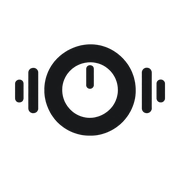
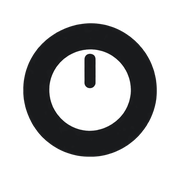
Подпись под ценами вместо островка в шапке; ЗС: светлее серый, крупнее фавикон
- цены: пояснение с кнопкой — строкой под прайсом на линии
- Звук Сервис: серые блоки #d3d1cf → #eae9e7, фавикон — кольцо без боковых палочек

diff --git a/index.html b/index.html
@@ -73,16 +73,12 @@
 <!-- ─────────────── 02 · цены и сроки ─────────────── -->
 <section class="sect sect--white" id="ceny">
 <div class="wrap">
-<header class="grid sect__head sect__head--split" data-reveal="">
+<header class="grid sect__head" data-reveal="">
 <p class="sect__index"><span>02</span>Цены и сроки</p>
 <div class="sect__title">
 <h2>Стоимость и порядок ремонта</h2>
 <p class="sect__lead">Диагностика бесплатная. Цена и срок согласуются до ремонта.</p>
 </div>
-<aside class="sect__note">
-<p>Точную сумму называем после бесплатной диагностики: она зависит от модели и детали. Если цена не устроит, технику вернём без оплаты.</p>
-<a class="btn btn--accent" href="tel:+79859197728">Узнать цену по телефону</a>
-</aside>
 </header>
 <div class="grid prices" data-reveal="">
 <div class="prices__table">
@@ -90,6 +86,10 @@
 <!--ИСТОРИИ prices-->
 <div class="prices__cols"><div class="prices__col"><p class="acc__cols"><span>Работа</span><span>Стоимость</span></p><div class="acc acc--prices" data-acc=""><div class="acc__item"><button aria-controls="zs-p1" aria-expanded="false" class="acc__head" id="zs-p1-h" type="button"><span class="acc__title"><b>Диагностика аппарата</b></span><span class="acc__term">Бесплатно</span><i aria-hidden="true" class="acc__icon"></i></button><div aria-labelledby="zs-p1-h" class="acc__panel" id="zs-p1" role="region"><div class="acc__inner"><p>Проверяем аппарат, находим неисправный узел и называем стоимость до начала работ.</p></div></div></div><div class="acc__item"><button aria-controls="zs-p2" aria-expanded="false" class="acc__head" id="zs-p2-h" type="button"><span class="acc__title"><b>Восстановление платы усилителя</b></span><span class="acc__term">После диагностики</span><i aria-hidden="true" class="acc__icon"></i></button><div aria-labelledby="zs-p2-h" class="acc__panel" id="zs-p2" role="region"><div class="acc__inner"><p>Замена конденсаторов, транзисторов, реле и пайки. Стоимость зависит от объёма и деталей.</p></div></div></div><div class="acc__item"><button aria-controls="zs-p3" aria-expanded="false" class="acc__head" id="zs-p3-h" type="button"><span class="acc__title"><b>Ремонт питания ресивера</b></span><span class="acc__term">После диагностики</span><i aria-hidden="true" class="acc__icon"></i></button><div aria-labelledby="zs-p3-h" class="acc__panel" id="zs-p3" role="region"><div class="acc__inner"><p>Блок питания и защита. Цена определяется после проверки под нагрузкой.</p></div></div></div></div></div><div class="prices__col"><p class="acc__cols" aria-hidden="true"><span>Работа</span><span>Стоимость</span></p><div class="acc acc--prices" data-acc=""><div class="acc__item"><button aria-controls="zs-p4" aria-expanded="false" class="acc__head" id="zs-p4-h" type="button"><span class="acc__title"><b>Обслуживание механики деки</b></span><span class="acc__term">После осмотра</span><i aria-hidden="true" class="acc__icon"></i></button><div aria-labelledby="zs-p4-h" class="acc__panel" id="zs-p4" role="region"><div class="acc__inner"><p>Пассики, ролики, чистка и настройка механизма. Смотрим состояние и называем сумму.</p></div></div></div><div class="acc__item"><button aria-controls="zs-p5" aria-expanded="false" class="acc__head" id="zs-p5-h" type="button"><span class="acc__title"><b>Поиск детали для винтажа</b></span><span class="acc__term">Согласуем отдельно</span><i aria-hidden="true" class="acc__icon"></i></button><div aria-labelledby="zs-p5-h" class="acc__panel" id="zs-p5" role="region"><div class="acc__inner"><p>Снятые с производства компоненты ищем по донорам и аналогам. Сроки и цену обсуждаем до заказа.</p></div></div></div></div></div></div>
 <!--/ИСТОРИИ prices-->
+</div>
+<div class="prices__foot">
+<p>Точную сумму называем после бесплатной диагностики: она зависит от модели и детали. Если цена не устроит, технику вернём без оплаты.</p>
+<a class="btn btn--accent" href="tel:+79859197728">Узнать цену по телефону</a>
 </div>
 </div>
 </div>

diff --git a/layout.css b/layout.css
@@ -85,14 +85,6 @@ body{max-width:none;width:100%;margin:0;border:0;overflow-x:clip}
 .sect--white{background:var(--white)}
 .sect--night{border-top:0}
 .sect__head{display:block;margin-bottom:32px;row-gap:0}
-/* Шапка с пояснением справа: подводка и кнопка стоят на одной линии с заголовком,
-   поэтому под списком не остаётся пустой колонки. */
-.sect__head--split{display:grid;grid-template-columns:repeat(12,minmax(0,1fr));column-gap:var(--gap);align-items:end}
-.sect__head--split .sect__index{grid-column:1/-1}
-.sect__head--split .sect__title{grid-column:1/span 6}
-.sect__note{grid-column:8/-1;align-self:end;padding-bottom:4px}
-.sect__note p{font-size:15px;line-height:1.55;color:var(--ink-2);max-width:34ch}
-.sect__note .btn{margin-top:16px}
 .sect__index{display:flex;gap:8px;margin-bottom:12px;padding:0;font-size:12px}
 .sect__title{padding:0;border:0}
 .sect__title h2{font-size:clamp(30px,2.8vw,42px);line-height:1.12;letter-spacing:-.03em;max-width:22ch}
@@ -236,6 +228,12 @@ body{max-width:none;width:100%;margin:0;border:0;overflow-x:clip}
 .acc__term{font-size:14px;color:var(--ink-2);white-space:nowrap;transition:color .2s ease}
 .acc__item.is-open .acc__term{color:inherit;opacity:.8}
 .prices__cols{display:grid;grid-template-columns:repeat(2,minmax(0,1fr));column-gap:var(--gap);align-items:start}
+/* Пояснение к ценам — подпись под прайсом: текст слева, кнопка справа, на линии.
+   В шапке справа от заголовка оно висело отдельным островком и читалось случайным. */
+.prices__foot{grid-column:1/-1;display:flex;align-items:center;justify-content:space-between;gap:16px 32px;
+              margin-top:32px;padding-top:24px;border-top:1px solid var(--line)}
+.prices__foot p{font-size:15px;line-height:1.55;color:var(--ink-2);max-width:64ch}
+.prices__foot .btn{flex:none}
 .acc--prices .acc__head{grid-template-columns:1fr auto auto;column-gap:20px}
 .acc__cols{display:flex;justify-content:space-between;padding:0 56px 8px 16px;font-family:var(--mono);font-size:11.5px;line-height:16px;color:var(--ink-3)}
 .acc__icon{position:relative;flex:none;width:20px;height:20px}
@@ -303,8 +301,7 @@ body{max-width:none;width:100%;margin:0;border:0;overflow-x:clip}
   .dir__head,.dir__list,.dir__more{grid-column:2}
   .dir__head{margin-top:0}
   .prices__table,#ceny .prices__table{grid-column:1/-1}
-  .sect__head--split{display:block}
-  .sect__note{margin-top:24px}
+  .prices__foot{flex-direction:column;align-items:flex-start}
   .prices__cols{grid-template-columns:1fr;row-gap:8px}
   .prices__col:nth-child(2) .acc__cols{display:none}
   .steps,#ceny .steps{grid-template-columns:1fr;gap:16px}

diff --git a/theme.css b/theme.css
@@ -10,7 +10,7 @@
 :root{
   --bg:#c4c3c1;
   --paper:#ffffff;   /* светлый блок */
-  --white:#d3d1cf;   /* серый блок чередования, прямо из палитры */
+  --white:#eae9e7;   /* серый блок чередования: 21.09 осветлён по просьбе владельца, был #d3d1cf из палитры */
   --ink:#101114; --ink-2:#3e4044; --ink-3:#4c4e53;
   --line:#c6c4c2; --line-2:#93918f;
   --media:#e2e1df;
@@ -26,14 +26,14 @@ html #voprosy{background:var(--paper)}
 
 /* Концовка: контакты — серый блок чередования, подвал — чёрная плита без синевы */
 html #kontakty{background:var(--white);color:var(--ink);
-               --night:var(--white);--night-2:var(--paper);--night-3:#f1f0ef;--night-line:#bcbab8;
+               --night:var(--white);--night-2:var(--paper);--night-3:#f1f0ef;--night-line:#d6d4d1;
                --n-ink:var(--ink);--n-ink-2:var(--ink-2);--n-ink-3:var(--ink-3)}
 html .foot{background:#101114;border-top:0;
            --night:#101114;--night-line:#2a2b2f;
            --n-ink:#ffffff;--n-ink-2:#b4b4b6;--n-ink-3:#8e9093}
 
 /* на сером блоке линии должны читаться — тон темнее самого блока */
-html #chto-chinim{--line:#bcbab8}
-html #chto-chinim .acc__item{border-color:#bcbab8}
+html #chto-chinim{--line:#d6d4d1}
+html #chto-chinim .acc__item{border-color:#d6d4d1}
 
 @media(max-width:760px){html .callbar{background:rgba(255,255,255,.96)}}
